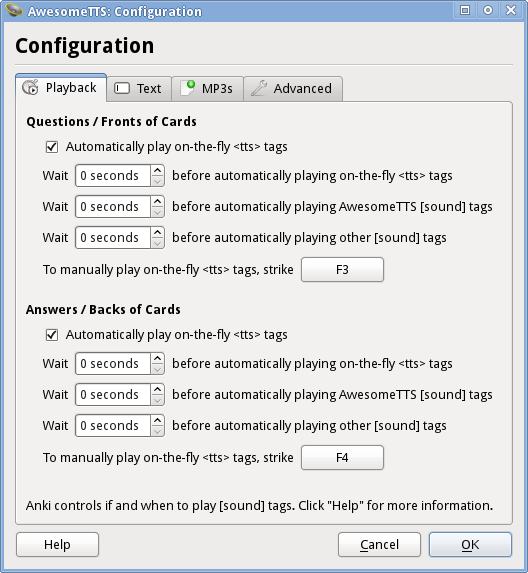
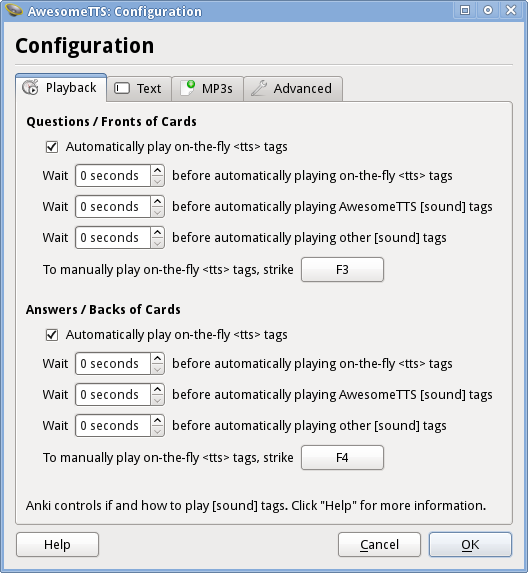
Rephrase configuration playback text
Let's say "if and HOW" here.

Changed region(s): [[0.2727, 0.8604, 0.9394, 0.9197]]

diff --git a/addon/awesometts/gui/configurator.py b/addon/awesometts/gui/configurator.py
@@ -133,7 +133,7 @@ class Configurator(Dialog):
         Returns the "Playback" tab.
         """
 
-        notes = QtGui.QLabel('Anki controls if and when to play [sound] '
+        notes = QtGui.QLabel('Anki controls if and how to play [sound] '
                              'tags. Click "Help" for more information.')
 
         layout = QtGui.QVBoxLayout()
